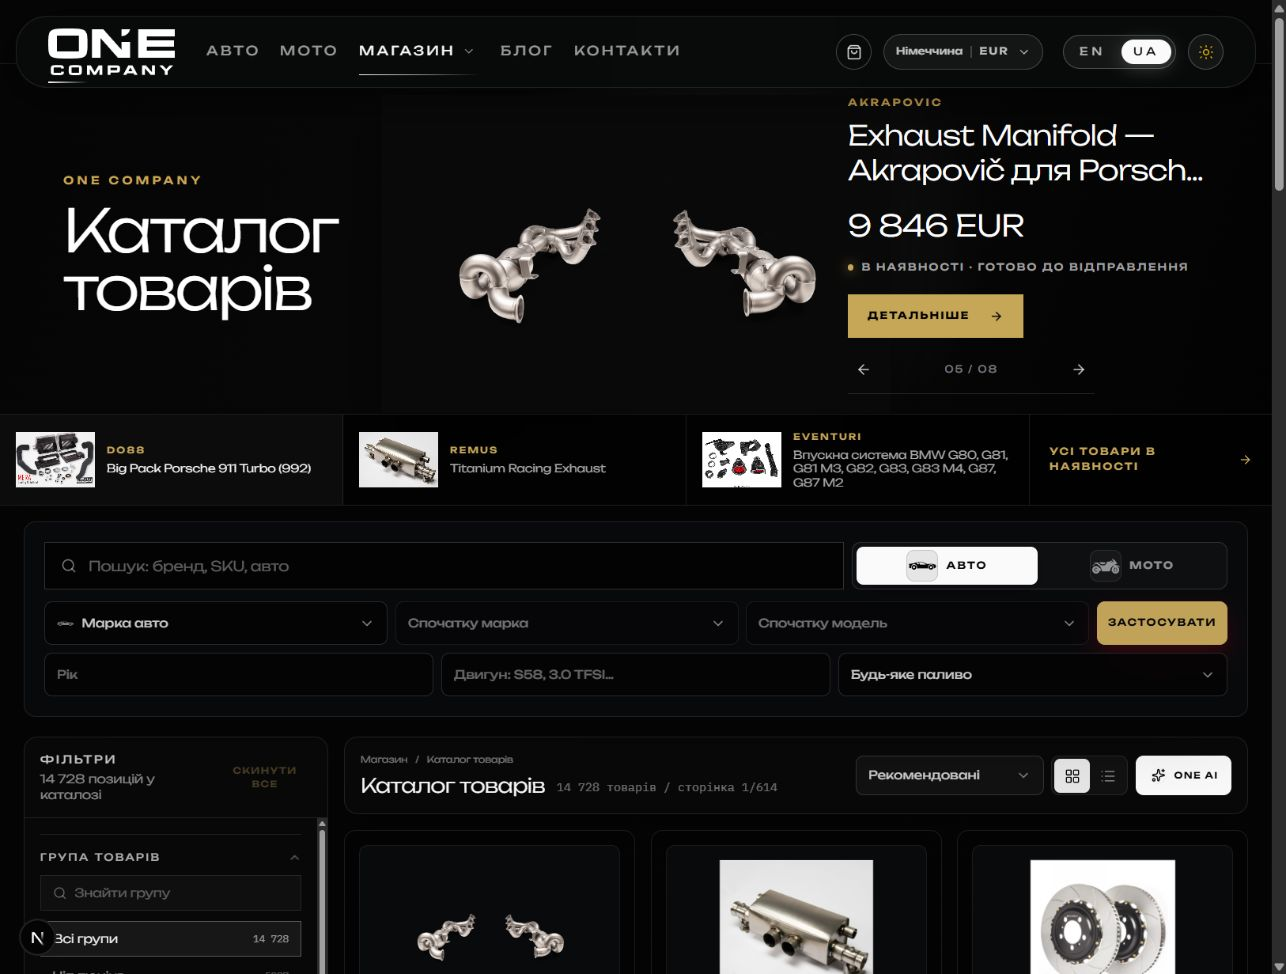
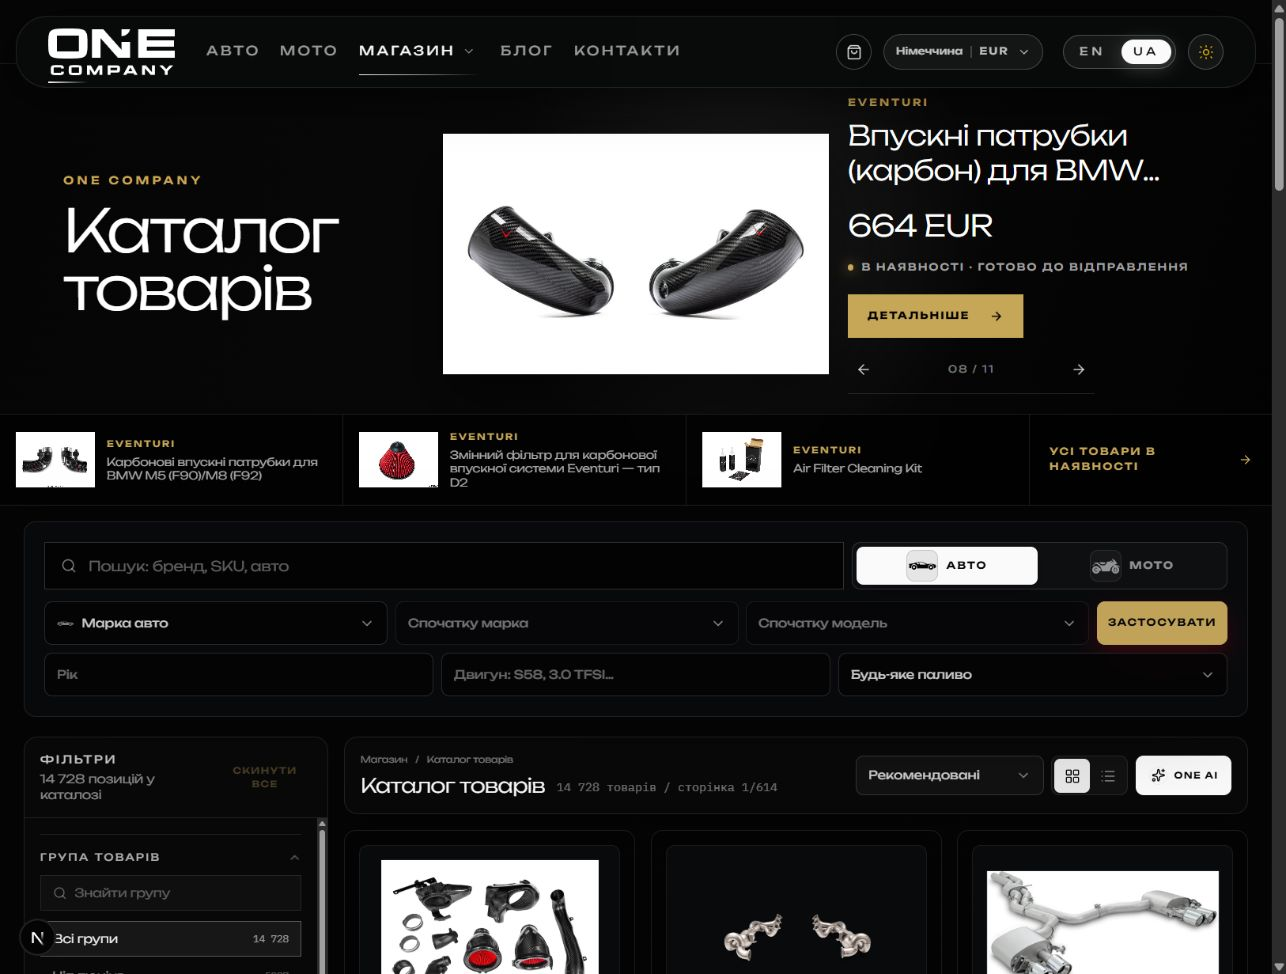
fix(catalog): use confirmed warehouse inventory

diff --git a/src/app/[locale]/shop/stock/page.tsx b/src/app/[locale]/shop/stock/page.tsx
@@ -746,6 +746,7 @@ function StockPageContent() {
   const [searchFocused, setSearchFocused] = useState(false);
   const [activeSuggestionIndex, setActiveSuggestionIndex] = useState(-1);
   const [items, setItems] = useState<StockItem[]>([]);
+  const [warehouseHeroItems, setWarehouseHeroItems] = useState<StockItem[]>([]);
   const [heroProductIndex, setHeroProductIndex] = useState(0);
   const [heroPaused, setHeroPaused] = useState(false);
   const [loading, setLoading] = useState(true);
@@ -809,7 +810,15 @@ function StockPageContent() {
     searchParams.get("scope") === "moto" ? "moto" : "auto"
   );
   const heroProducts = useMemo(() => {
-    const available = items
+    const uniqueInventory = new Map<string, StockItem>();
+    for (const item of warehouseHeroItems) {
+      const inventoryKey = item.partNumber.trim().toUpperCase() || item.id;
+      const existing = uniqueInventory.get(inventoryKey);
+      if (!existing || (item.price ?? 0) > (existing.price ?? 0)) {
+        uniqueInventory.set(inventoryKey, item);
+      }
+    }
+    const available = [...uniqueInventory.values()]
       .filter((item) => item.inStock && item.thumbnail)
       .sort((left, right) => (right.price ?? 0) - (left.price ?? 0));
     const featured: StockItem[] = [];
@@ -820,17 +829,15 @@ function StockPageContent() {
       if (!brandKey || usedBrands.has(brandKey)) continue;
       featured.push(item);
       usedBrands.add(brandKey);
-      if (featured.length === 8) return featured;
     }
 
     for (const item of available) {
       if (featured.some((featuredItem) => featuredItem.id === item.id)) continue;
       featured.push(item);
-      if (featured.length === 8) break;
     }
 
     return featured;
-  }, [items]);
+  }, [warehouseHeroItems]);
   const activeHeroProduct = heroProducts[heroProductIndex] ?? null;
   const heroRailProducts = useMemo(
     () =>
@@ -844,6 +851,32 @@ function StockPageContent() {
   );
   const mobileFiltersDialogRef = useRef<HTMLElement | null>(null);
   const mobileFiltersCloseButtonRef = useRef<HTMLButtonElement | null>(null);
+
+  useEffect(() => {
+    const controller = new AbortController();
+    const params = new URLSearchParams({
+      locale,
+      stock: "inStock",
+      limit: "24",
+      sort: "price_desc",
+      currency,
+    });
+    if (country) params.set("country", country);
+
+    void fetch(`/api/shop/stock/search?${params.toString()}`, {
+      signal: controller.signal,
+      headers: { Accept: "application/json" },
+    })
+      .then((response) => (response.ok ? response.json() : Promise.reject(new Error("inventory"))))
+      .then((payload: StockSearchResponse) => setWarehouseHeroItems(payload.data ?? []))
+      .catch((requestError: unknown) => {
+        if (!(requestError instanceof DOMException && requestError.name === "AbortError")) {
+          setWarehouseHeroItems([]);
+        }
+      });
+
+    return () => controller.abort();
+  }, [country, currency, locale]);
 
   useEffect(() => {
     setHeroProductIndex((current) => (heroProducts.length ? current % heroProducts.length : 0));
@@ -2658,8 +2691,8 @@ function StockPageContent() {
                   transition={{ duration: 0.55, ease: [0.22, 1, 0.36, 1] }}
                   className="pointer-events-none absolute inset-x-[30%] bottom-[94px] top-8 hidden items-center justify-center lg:flex"
                 >
-                  <span className="relative block aspect-[16/10] w-full max-w-[520px] overflow-hidden bg-[#090909] shadow-[0_28px_60px_rgba(0,0,0,0.52)]">
-                    <Image src={activeHeroProduct.thumbnail!} alt="" fill unoptimized priority={heroProductIndex === 0} sizes="520px" className="object-cover object-center" />
+                  <span className="relative block aspect-[16/10] w-full max-w-[390px] overflow-hidden bg-[#090909] shadow-[0_28px_60px_rgba(0,0,0,0.52)]">
+                    <Image src={activeHeroProduct.thumbnail!} alt="" fill unoptimized priority={heroProductIndex === 0} sizes="390px" className="object-cover object-center" />
                   </span>
                 </motion.div>
                 <motion.div

diff --git a/src/lib/shopCatalogPremiumProjection.server.ts b/src/lib/shopCatalogPremiumProjection.server.ts
@@ -18,6 +18,10 @@ import { buildShopStorefrontProductPath } from "@/lib/shopStorefrontRouting";
 import { prisma } from "@/lib/prisma";
 import { resolveLegacyVehicleProductIds } from "@/lib/shopCatalogLegacyVehicleIds.server";
 import { isEuropePricingCountry } from "@/lib/shopEuropePricing";
+import {
+  isShopWarehouseInStockSku,
+  SHOP_WAREHOUSE_IN_STOCK_SKUS,
+} from "@/lib/shopWarehouseInventory";
 
 const PAGE_SIZE = 24;
 
@@ -66,6 +70,7 @@ export async function queryPremiumCatalogProjection(params: URLSearchParams) {
   const priceCurrency =
     requestedCurrency === "EUR" || requestedCurrency === "UAH" ? requestedCurrency : "USD";
   const requestedSort = params.get("sort");
+  const requestedStock = params.get("stock") === "inStock" ? "inStock" : null;
   const settingsRecord = await getOrCreateShopSettings(prisma);
   const settings = getShopSettingsRuntime(settingsRecord);
   const useEuropePrice = isEuropePricingCountry(params.get("country"));
@@ -102,6 +107,19 @@ export async function queryPremiumCatalogProjection(params: URLSearchParams) {
     useEuropePrice,
     offset: (page - 1) * requestedLimit,
   };
+  const warehouseProducts = await prisma.shopProduct.findMany({
+    where: {
+      isPublished: true,
+      status: "ACTIVE",
+      OR: [
+        { sku: { in: [...SHOP_WAREHOUSE_IN_STOCK_SKUS] } },
+        { variants: { some: { sku: { in: [...SHOP_WAREHOUSE_IN_STOCK_SKUS] } } } },
+      ],
+    },
+    select: { id: true },
+  });
+  const warehouseProductIds = warehouseProducts.map((product) => product.id);
+  if (requestedStock === "inStock") query.productIds = warehouseProductIds;
 
   const hasVehicleSelection = Boolean(query.make || query.model || query.generation || query.year);
   query.orderSeed = [
@@ -129,12 +147,17 @@ export async function queryPremiumCatalogProjection(params: URLSearchParams) {
   // preserve the complete product-owned vehicle coverage. Engine/fuel remain
   // projection-native because legacy evidence does not model them reliably.
   if (query.make || query.model || query.generation || query.year) {
-    query.productIds = await resolveLegacyVehicleProductIds({
+    const vehicleProductIds = await resolveLegacyVehicleProductIds({
       make: query.make,
       model: query.model,
       generation: query.generation,
       year: query.year,
     });
+    if (vehicleProductIds) {
+      query.productIds = query.productIds
+        ? vehicleProductIds.filter((productId) => query.productIds?.includes(productId))
+        : vehicleProductIds;
+    }
     query.make = null;
     query.model = null;
     query.generation = null;
@@ -189,7 +212,7 @@ export async function queryPremiumCatalogProjection(params: URLSearchParams) {
       description: item.cardCopy ?? "",
       category: item.categoryLabel ?? "",
       thumbnail: cardPrice?.primaryMediaUrl ?? item.primaryMediaUrl ?? null,
-      inStock: true,
+      inStock: isShopWarehouseInStockSku(cardPrice?.sku ?? item.normalizedSku),
       price: displayPrice,
       priceUsd: priceSet.usd,
       priceEur: priceSet.eur,
@@ -217,7 +240,11 @@ export async function queryPremiumCatalogProjection(params: URLSearchParams) {
   const filterStats = {
     brands: facetResult.facets.brand.map(({ label, count }) => ({ label, count })),
     categories: facetResult.facets.category.map(({ label, count }) => ({ label, count })),
-    stock: { all: totalItems, inStock: totalItems, preOrder: 0 },
+    stock: {
+      all: totalItems,
+      inStock: requestedStock === "inStock" ? totalItems : warehouseProductIds.length,
+      preOrder: requestedStock === "inStock" ? 0 : Math.max(0, totalItems - warehouseProductIds.length),
+    },
     price: {
       min: pricesOnPage.length ? Math.floor(Math.min(...pricesOnPage)) : 0,
       max: pricesOnPage.length ? Math.ceil(Math.max(...pricesOnPage)) : 0,

diff --git a/src/app/api/shop/stock/search/route.ts b/src/app/api/shop/stock/search/route.ts
@@ -85,6 +85,10 @@ import {
   resolveShopCatalogDeploymentCommit,
 } from "@/lib/shopCatalogShadowTelemetry.server";
 import { queryPremiumCatalogProjection } from "@/lib/shopCatalogPremiumProjection.server";
+import {
+  getShopWarehouseStockStatus,
+  isShopWarehouseInStockSku,
+} from "@/lib/shopWarehouseInventory";
 
 const URBAN_VEHICLE_BRANDS = new Set([
   "land rover",
@@ -587,7 +591,7 @@ function buildFilterStats(
     incrementCount(brands, getProductDisplayBrand(item.product.brand));
     incrementCount(categories, getShopStockCategoryLabelForProduct(item, locale));
 
-    if (item.product.stock === "inStock") {
+    if (isShopWarehouseInStockSku(item.product.sku)) {
       inStock += 1;
     } else {
       preOrder += 1;
@@ -1158,7 +1162,7 @@ export async function GET(request: NextRequest) {
     }
 
     if (stock !== "all") {
-      filtered = filtered.filter((item) => item.product.stock === stock);
+      filtered = filtered.filter((item) => getShopWarehouseStockStatus(item.product.sku) === stock);
     }
 
     if (hasPriceFilter) {
@@ -1277,7 +1281,7 @@ export async function GET(request: NextRequest) {
             normalizedTitle
           );
 
-        let catalogScore = item.product.stock === "inStock" ? 120 : 0;
+        let catalogScore = isShopWarehouseInStockSku(item.product.sku) ? 120 : 0;
         if (hasImage) catalogScore += 45;
         if (productPrice > 0) catalogScore += 15 + Math.min(30, Math.log10(productPrice + 1) * 6);
         if (hasFitment) catalogScore += 12;
@@ -1444,7 +1448,9 @@ export async function GET(request: NextRequest) {
         );
       }
       if (stock !== "all") {
-        fallbackFiltered = fallbackFiltered.filter((item) => item.product.stock === stock);
+        fallbackFiltered = fallbackFiltered.filter(
+          (item) => getShopWarehouseStockStatus(item.product.sku) === stock
+        );
       }
       if (hasPriceFilter) {
         fallbackFiltered = fallbackFiltered.filter(matchesPriceRange);
@@ -1498,7 +1504,9 @@ export async function GET(request: NextRequest) {
         // Fallback 2: Ignore brand/category as well (global query match)
         let globalSource = productsWithFitments;
         if (stock !== "all") {
-          globalSource = globalSource.filter((item) => item.product.stock === stock);
+          globalSource = globalSource.filter(
+            (item) => getShopWarehouseStockStatus(item.product.sku) === stock
+          );
         }
         if (hasPriceFilter) {
           globalSource = globalSource.filter(matchesPriceRange);
@@ -1612,7 +1620,7 @@ export async function GET(request: NextRequest) {
               : product.shortDescription?.ua || product.shortDescription?.en || "",
           category: sourceCategory || getShopStockCategoryLabelForProduct({ product }, locale),
           thumbnail: product.image || null,
-          inStock: product.stock === "inStock",
+          inStock: isShopWarehouseInStockSku(product.sku),
           price: dealerPrice,
           priceUsd: effectivePriceSet.usd,
           priceEur: effectivePriceSet.eur,

diff --git a/src/lib/shopCatalogCardPricing.server.ts b/src/lib/shopCatalogCardPricing.server.ts
@@ -10,6 +10,7 @@ export type ShopCatalogCardPricing = Readonly<{
   compareAt: ShopMoneySet | null;
   b2bCompareAt: ShopMoneySet | null;
   brand: string | null;
+  sku: string | null;
   primaryMediaUrl: string | null;
   defaultVariantId: string | null;
 }>;
@@ -42,6 +43,7 @@ export async function getShopCatalogCardPricingByIds(
       brand: true,
       vendor: true,
       image: true,
+      sku: true,
       priceEur: true,
       priceEurEurope: true,
       priceUsd: true,
@@ -60,6 +62,7 @@ export async function getShopCatalogCardPricingByIds(
         take: 1,
         select: {
           id: true,
+          sku: true,
           image: true,
           priceEur: true,
           priceEurEurope: true,
@@ -119,6 +122,7 @@ export async function getShopCatalogCardPricingByIds(
           )
         ),
         brand: resolveShopProductBrand(row) || null,
+        sku: row.sku ?? variant?.sku ?? null,
         primaryMediaUrl: row.image ?? variant?.image ?? row.media[0]?.src ?? null,
         defaultVariantId: variant?.id ?? null,
       } satisfies ShopCatalogCardPricing;

diff --git a/tests/shop/unit/shopWarehouseInventory.test.ts b/tests/shop/unit/shopWarehouseInventory.test.ts
@@ -1,0 +1,23 @@
+import test from "node:test";
+import assert from "node:assert/strict";
+
+import {
+  getShopWarehouseStockStatus,
+  isShopWarehouseInStockSku,
+  SHOP_WAREHOUSE_IN_STOCK_SKUS,
+} from "../../../src/lib/shopWarehouseInventory";
+
+test("warehouse inventory contains the eleven confirmed Eventuri SKUs", () => {
+  assert.equal(SHOP_WAREHOUSE_IN_STOCK_SKUS.length, 11);
+  assert.equal(new Set(SHOP_WAREHOUSE_IN_STOCK_SKUS).size, 11);
+  assert.equal(SHOP_WAREHOUSE_IN_STOCK_SKUS.every(isShopWarehouseInStockSku), true);
+});
+
+test("warehouse inventory matching is normalized but remains exact", () => {
+  assert.equal(isShopWarehouseInStockSku(" eve-g9x-cf-int "), true);
+  assert.equal(isShopWarehouseInStockSku("EVE-G9X-CF-INT-V2"), false);
+  assert.equal(isShopWarehouseInStockSku("X167M-B40S-800-00"), false);
+  assert.equal(getShopWarehouseStockStatus("EVE-FLC"), "inStock");
+  assert.equal(getShopWarehouseStockStatus("EVE-UNKNOWN"), "preOrder");
+});
+

diff --git a/src/lib/shopWarehouseInventory.ts b/src/lib/shopWarehouseInventory.ts
@@ -1,0 +1,24 @@
+export const SHOP_WAREHOUSE_IN_STOCK_SKUS = [
+  "EVE-G9X-CF-INT",
+  "EVE-G9X-CF-CHG",
+  "EVE-F9XM5M8-CF-INT",
+  "EVE-F9XM5M8-CHG",
+  "EVE-X56M-CHG",
+  "EVE-G8XMV2-CF-INT",
+  "EVE-G8XM-CF-SC",
+  "EVE-4V8TT-CF-INT",
+  "EVE-AMGGT-CF-INT",
+  "EVE-W192-FTR",
+  "EVE-FLC",
+] as const;
+
+const normalizeWarehouseSku = (value: string | null | undefined) =>
+  value?.trim().toUpperCase() ?? "";
+
+const warehouseSkuSet = new Set<string>(SHOP_WAREHOUSE_IN_STOCK_SKUS);
+
+export const isShopWarehouseInStockSku = (value: string | null | undefined) =>
+  warehouseSkuSet.has(normalizeWarehouseSku(value));
+
+export const getShopWarehouseStockStatus = (value: string | null | undefined) =>
+  isShopWarehouseInStockSku(value) ? ("inStock" as const) : ("preOrder" as const);

diff --git a/design-qa.md b/design-qa.md
@@ -26,7 +26,8 @@ No actionable P0, P1, or P2 differences remain.
 1. Initial comparison found a P2 layout issue: the existing negative top margin covered most of the new product rail. Fixed by placing the vehicle filter panel below the hero with a positive section gap. Post-fix evidence: `implementation-hero-final.png` and the lower half of `design-qa-comparison.png` show the entire rail.
 2. Initial comparison found a P2 fidelity issue: navigation occupied a dedicated left rail cell and the source's all-in-stock CTA was absent. Fixed by moving arrows/count beneath the product CTA and adding the right-side all-in-stock link. Post-fix evidence: the controls and rail structure are visible in `design-qa-comparison.png`.
 3. Initial comparison found a P2 image-delivery issue for external product thumbnails routed through the optimizer. Fixed by rendering hero and rail catalog thumbnails unoptimized so their source URLs load reliably. Post-fix evidence: the Akrapovič main image and all three rail thumbnails render in `implementation-hero-final.png`.
-4. Follow-up comparison found a P2 consistency issue: source images with different aspect ratios produced visibly different subject sizes and white square thumbnails. Fixed by standardizing the main media stage at 16:10 with a 520 px maximum width and `object-cover`, and every rail thumbnail at 80 × 56 px with the same crop behavior. Akrapovič, Brabus, and Öhlins states were switched manually and checked after the fix. Post-fix evidence: `implementation-hero-final.png` and the lower half of `design-qa-comparison.png`.
+4. Follow-up comparison found a P2 consistency issue: source images with different aspect ratios produced visibly different subject sizes and white square thumbnails. Fixed by standardizing the main media stage at 16:10 with a 390 px maximum width and `object-cover`, and every rail thumbnail at 80 × 56 px with the same crop behavior. Akrapovič, Brabus, Öhlins, and the confirmed Eventuri warehouse states were switched manually and checked after the fix. Post-fix evidence: `implementation-hero-final.png` and the lower half of `design-qa-comparison.png`.
+5. Inventory validation found a P0 content-trust issue: the premium adapter hardcoded every product as in stock. Fixed with one exact, normalized eleven-SKU Eventuri inventory source shared by both catalog readers. Duplicate catalog records are deduplicated by SKU in the hero. The rendered counter now shows 11 items, and Brabus, Öhlins, ADRO, Urban Automotive, and unrelated Eventuri SKUs are excluded.
 
 ## Primary interactions tested
 
